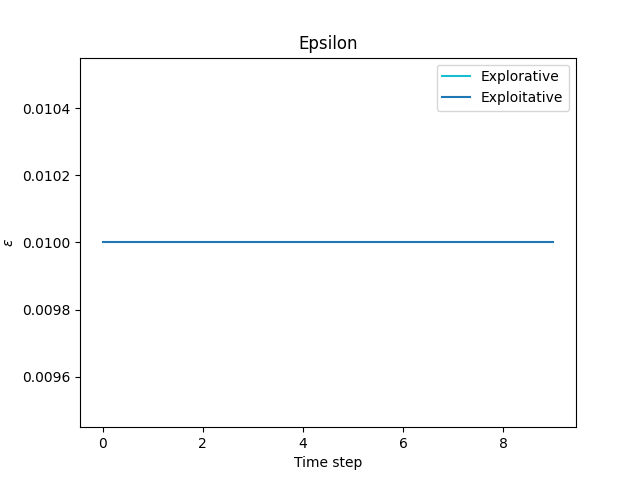
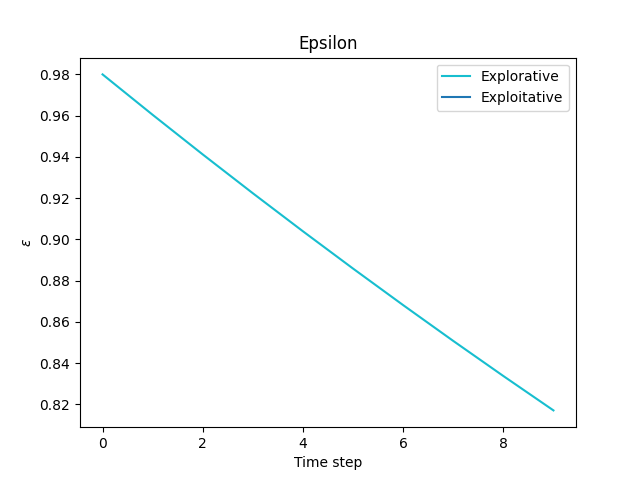
Add animation caching

diff --git a/src/SARSA.py b/src/SARSA.py
@@ -1,3 +1,5 @@
+from typing import List, Tuple
+
 import parameters
 import visualize
 from Agent import Agent
@@ -8,11 +10,12 @@ class SARSA:
 
     def __init__(self):
         self.episodes = parameters.EPISODES
+        self.caching_interval = parameters.CACHING_INTERVAL
         self.agent = Agent()
         self.simulated_world = MountainCar()
         self.steps_per_episode = []
 
-    def run_one_episode(self, max_steps: int = 1000) -> int:
+    def run_one_episode(self, max_steps: int = 1000) -> Tuple[int, List[float]]:
         self.agent.decay_epsilon()
         self.agent.reset_eligibilities()
         state, reward, done = self.simulated_world.reset()
@@ -20,6 +23,7 @@ class SARSA:
 
         done = False
         steps = 0
+        state_history = [state[0]]
         while not done and steps < max_steps:
             next_state, reward, done = self.simulated_world.step(action)
             next_action = self.agent.choose_epsilon_greedy(next_state)
@@ -28,7 +32,8 @@ class SARSA:
 
             state, action = next_state, next_action
             steps += 1
-        return steps
+            state_history.append(state[0])
+        return steps, state_history
 
     def run(self) -> None:
         """
@@ -37,8 +42,10 @@ class SARSA:
         """
         for episode in range(self.episodes):
             print('Episode:', episode + 1)
-            steps = self.run_one_episode()
+            steps, state_history = self.run_one_episode()
             self.steps_per_episode.append(steps)
+            if episode % parameters.CACHING_INTERVAL == 0:
+                visualize.animate_track(state_history, f'agent-{episode + 1}')
 
         print('Training completed.')
         visualize.plot_steps_per_episode(self.steps_per_episode)
@@ -47,6 +54,6 @@ class SARSA:
         if parameters.VISUALIZE_GAMES:
             print('Showing one episode with the greedy strategy.')
             self.agent.epsilon = 0
-            steps = self.run_one_episode()
+            steps, state_history = self.run_one_episode()
             print(f'Episode completed in {steps} steps.')
-            visualize.animate_track()
+            visualize.animate_track(state_history)

diff --git a/src/visualize.py b/src/visualize.py
@@ -1,5 +1,5 @@
 import math
-from typing import List
+from typing import List, Optional
 
 import matplotlib.pyplot as plt
 import numpy as np
@@ -8,8 +8,8 @@ from matplotlib.animation import FuncAnimation
 from mountaincar import MountainCar
 
 
-def animate_track() -> None:
-
+def animate_track(state_history: List[float], filename: Optional[str] = None) -> None:
+    state_history = np.array(state_history)
     fig, ax = plt.subplots(figsize=(6, 4))
     ax.set(xlim=MountainCar.position_bound, ylim=(-1.1, 1.1))
 
@@ -18,24 +18,26 @@ def animate_track() -> None:
     plt.xlabel('x')
 
     x = np.linspace(MountainCar.position_bound[0], MountainCar.position_bound[1], 91)
-    t = np.linspace(1, 100, 91)
-    y_x = y(x)
+    plt.plot(x, y(x))
 
-    plt.plot(x, y_x)
+    y_t = y(state_history)
 
-    point = ax.plot([0], [0], color='green', marker='o')[0]
+    point = ax.plot(state_history[0], y_t[0], color='green', marker='o')[0]
     point.set_data(0, 0)
 
     def animate(i):
-        point.set_data(x[i], y_x[i])
+        point.set_data(state_history[i], y_t[i])
         return point
 
-    anim = FuncAnimation(fig, animate, interval=100, frames=len(t) - 1)
+    anim = FuncAnimation(fig, animate, interval=100, frames=len(state_history) - 1)
 
     plt.tight_layout()
     plt.draw()
-    plt.show()
-    anim.save('plots/track.gif', writer='imagemagick')
+
+    if not filename:
+        plt.show()
+    else:
+        anim.save(f'models/{filename}.gif', writer='pillow')
     plt.close()
 
 
@@ -92,8 +94,3 @@ def plot_track() -> None:
 
 def y(x):
     return np.cos(3 * (x + math.pi / 2))
-
-
-if __name__ == "__main__":
-    animate_track()
-    plot_track()

diff --git a/src/Agent.py b/src/Agent.py
@@ -8,7 +8,6 @@ import tensorflow as tf
 from keras import backend as K  # noqa
 from keras.layers import Dense, Input
 from keras.models import Sequential
-from tensorflow.python.keras.backend_config import epsilon
 
 import parameters
 from mountaincar import Action, State
@@ -20,19 +19,19 @@ class Agent:
     actions: list[Action] = [-1, 0, 1]
 
     def __init__(self, model_path: Optional[str] = None) -> None:
-        self.epsilon = parameters.SARSA_EPSILON
-        self.epsilon_decay_rate = parameters.SARSA_EPSILON_DECAY
-        self.discount_factor = parameters.SARSA_DISCOUNT_FACTOR
-        self.trace_decay = parameters.SARSA_TRACE_DECAY
+        self.epsilon = parameters.EPSILON
+        self.epsilon_decay_rate = parameters.EPSILON_DECAY
+        self.discount_factor = parameters.DISCOUNT_FACTOR
+        self.trace_decay = parameters.TRACE_DECAY
         self.encoder = TileEncoder()
         self.encoder.visualize_tilings()
 
         if model_path is None:
-            self.learning_rate = parameters.SARSA_LEARNING_RATE
-            self.dimensions = parameters.SARSA_DIMENSIONS
-            self.activation_function = parameters.SARSA_ACTIVATION_FUNCTION
-            self.optimizer = parameters.SARSA_OPTIMIZER
-            self.loss_function = parameters.SARSA_LOSS_FUNCTION
+            self.learning_rate = parameters.NN_LEARNING_RATE
+            self.dimensions = parameters.NN_DIMENSIONS
+            self.activation_function = parameters.NN_ACTIVATION_FUNCTION
+            self.optimizer = parameters.NN_OPTIMIZER
+            self.loss_function = parameters.NN_LOSS_FUNCTION
 
             self.Q: Sequential = self.build_model()
         else:

diff --git a/src/parameters.py b/src/parameters.py
@@ -8,7 +8,7 @@ RUN_TRAINING = False
 
 # RL parameters
 EPISODES = 10
-MODELS_TO_BE_CACHED = 10
+CACHING_INTERVAL = 1
 
 # Domain & TileEncoder parameters
 SIZE_OF_TILING_X = 4
@@ -19,14 +19,14 @@ NUMBER_OF_FEATURES = SIZE_OF_TILING_X * SIZE_OF_TILING_Y * NUM_OF_TILINGS
 X_RANGE = (-1.2, 0.6)
 Y_RANGE = (-0.07, 0.07)
 
-# SARSA
-SARSA_EPSILON = 0.01
-SARSA_EPSILON_DECAY = 1
-SARSA_DISCOUNT_FACTOR = 0.9
-SARSA_TRACE_DECAY = 0.9
+# Agent
+EPSILON = 1
+EPSILON_DECAY = 0.98
+DISCOUNT_FACTOR = 0.92
+TRACE_DECAY = 0.9
 
-SARSA_LEARNING_RATE = 0.01
-SARSA_LOSS_FUNCTION = mse  # "A typical solution involves mean squared error as the loss function for your critic network"
-SARSA_ACTIVATION_FUNCTION = linear  # linear, relu, sigmoid, or tanh
-SARSA_OPTIMIZER = Adam  # SGD, Adagrad, Adam, or RMSprop
-SARSA_DIMENSIONS = (NUMBER_OF_FEATURES, 1)
+NN_LEARNING_RATE = 0.0001
+NN_DIMENSIONS = (NUMBER_OF_FEATURES, 1)
+NN_ACTIVATION_FUNCTION = relu  # linear, relu, sigmoid, or tanh
+NN_OPTIMIZER = Adam  # SGD, Adagrad, Adam, or RMSprop
+NN_LOSS_FUNCTION = mse  # "A typical solution involves mean squared error as the loss function for your critic network"

diff --git a/src/tile_encoder.py b/src/tile_encoder.py
@@ -1,8 +1,5 @@
-import sys
-
 import matplotlib.pyplot as plt
 import numpy as np
-from matplotlib.lines import Line2D
 
 import parameters
 
@@ -35,13 +32,10 @@ class TileEncoder:
         offset_x = (low[0] - high[0]) / (num_tilings * num_tiles[0])
         offset_y = (low[1] - high[1]) / (num_tilings * num_tiles[1])
 
-        for i in range(num_tilings):
+        for _ in range(num_tilings):
             tiling_specs.append(((num_tiles), (offset_x, offset_y)))
             offset_x -= (low[0] - high[0]) / (num_tilings * num_tiles[0])
             offset_y -= (low[1] - high[1]) / (num_tilings * num_tiles[1])
-            print(tiling_specs)
-            print(offset_x)
-            print(offset_y)
         return [self.create_tiling_grid(low, high, tiles, offsets) for tiles, offsets in tiling_specs]
 
     def discretize(self, sample, grid):

diff --git a/src/mountaincar.py b/src/mountaincar.py
@@ -36,7 +36,7 @@ class MountainCar:
         return 1 - 2 * int(self.is_final_state())
 
     def __bound_position(self, position: float) -> float:
-        self.velocity *= int(position < MountainCar.position_bound[0])  # set velocity to zero if out of bounds
+        self.velocity *= int(position >= MountainCar.position_bound[0])  # set velocity to zero if out of bounds
         return max(MountainCar.position_bound[0], position)
 
     def __bound_velocity(self, velocity: float) -> float:

diff --git a/src/main.py b/src/main.py
@@ -1,7 +1,6 @@
 import glob
 import os
 
-import parameters
 from Agent import Agent
 from SARSA import SARSA
 
